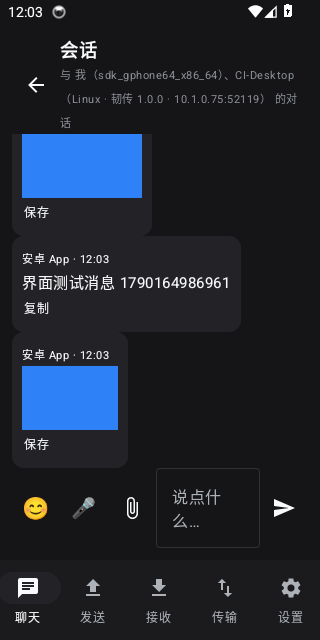
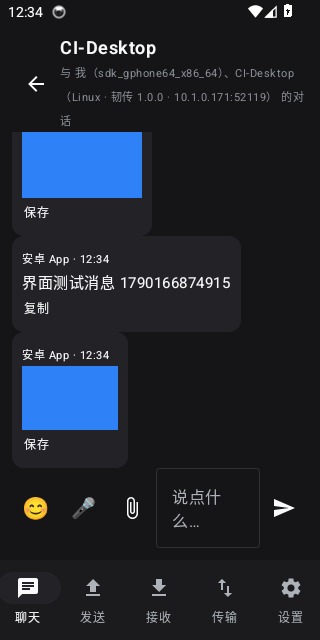
polish(安卓): 输入框单行显示，占位文字不再折成两行
小屏手机上「说点什么…」会被挤成「说点什 / 么…」，看着像坏了。改成
singleLine + maxLines=1，长文本自己横向滚动。

顺带把 CI 归档的真机截图与 15 项测试结果换成这一版。

diff --git a/android/app/src/main/java/cn/eversend/app/MainActivity.kt b/android/app/src/main/java/cn/eversend/app/MainActivity.kt
@@ -883,8 +883,11 @@ fun Composer(
             value = draft,
             onValueChange = { draft = it },
             modifier = Modifier.weight(1f).testTag("chat-input"),
-            placeholder = { Text("说点什么…") },
-            maxLines = 3,
+            placeholder = { Text("说点什么…", maxLines = 1) },
+            // 输入框窄的时候（小屏手机 + 三个按钮挤在一行），占位文字会折成
+            // 两行「说点什 / 么…」，看着像坏掉了。单行显示，长文本自己横滚。
+            singleLine = true,
+            maxLines = 1,
             keyboardOptions = KeyboardOptions(imeAction = ImeAction.Send),
             keyboardActions = KeyboardActions(onSend = {
                 if (draft.isNotBlank()) {
